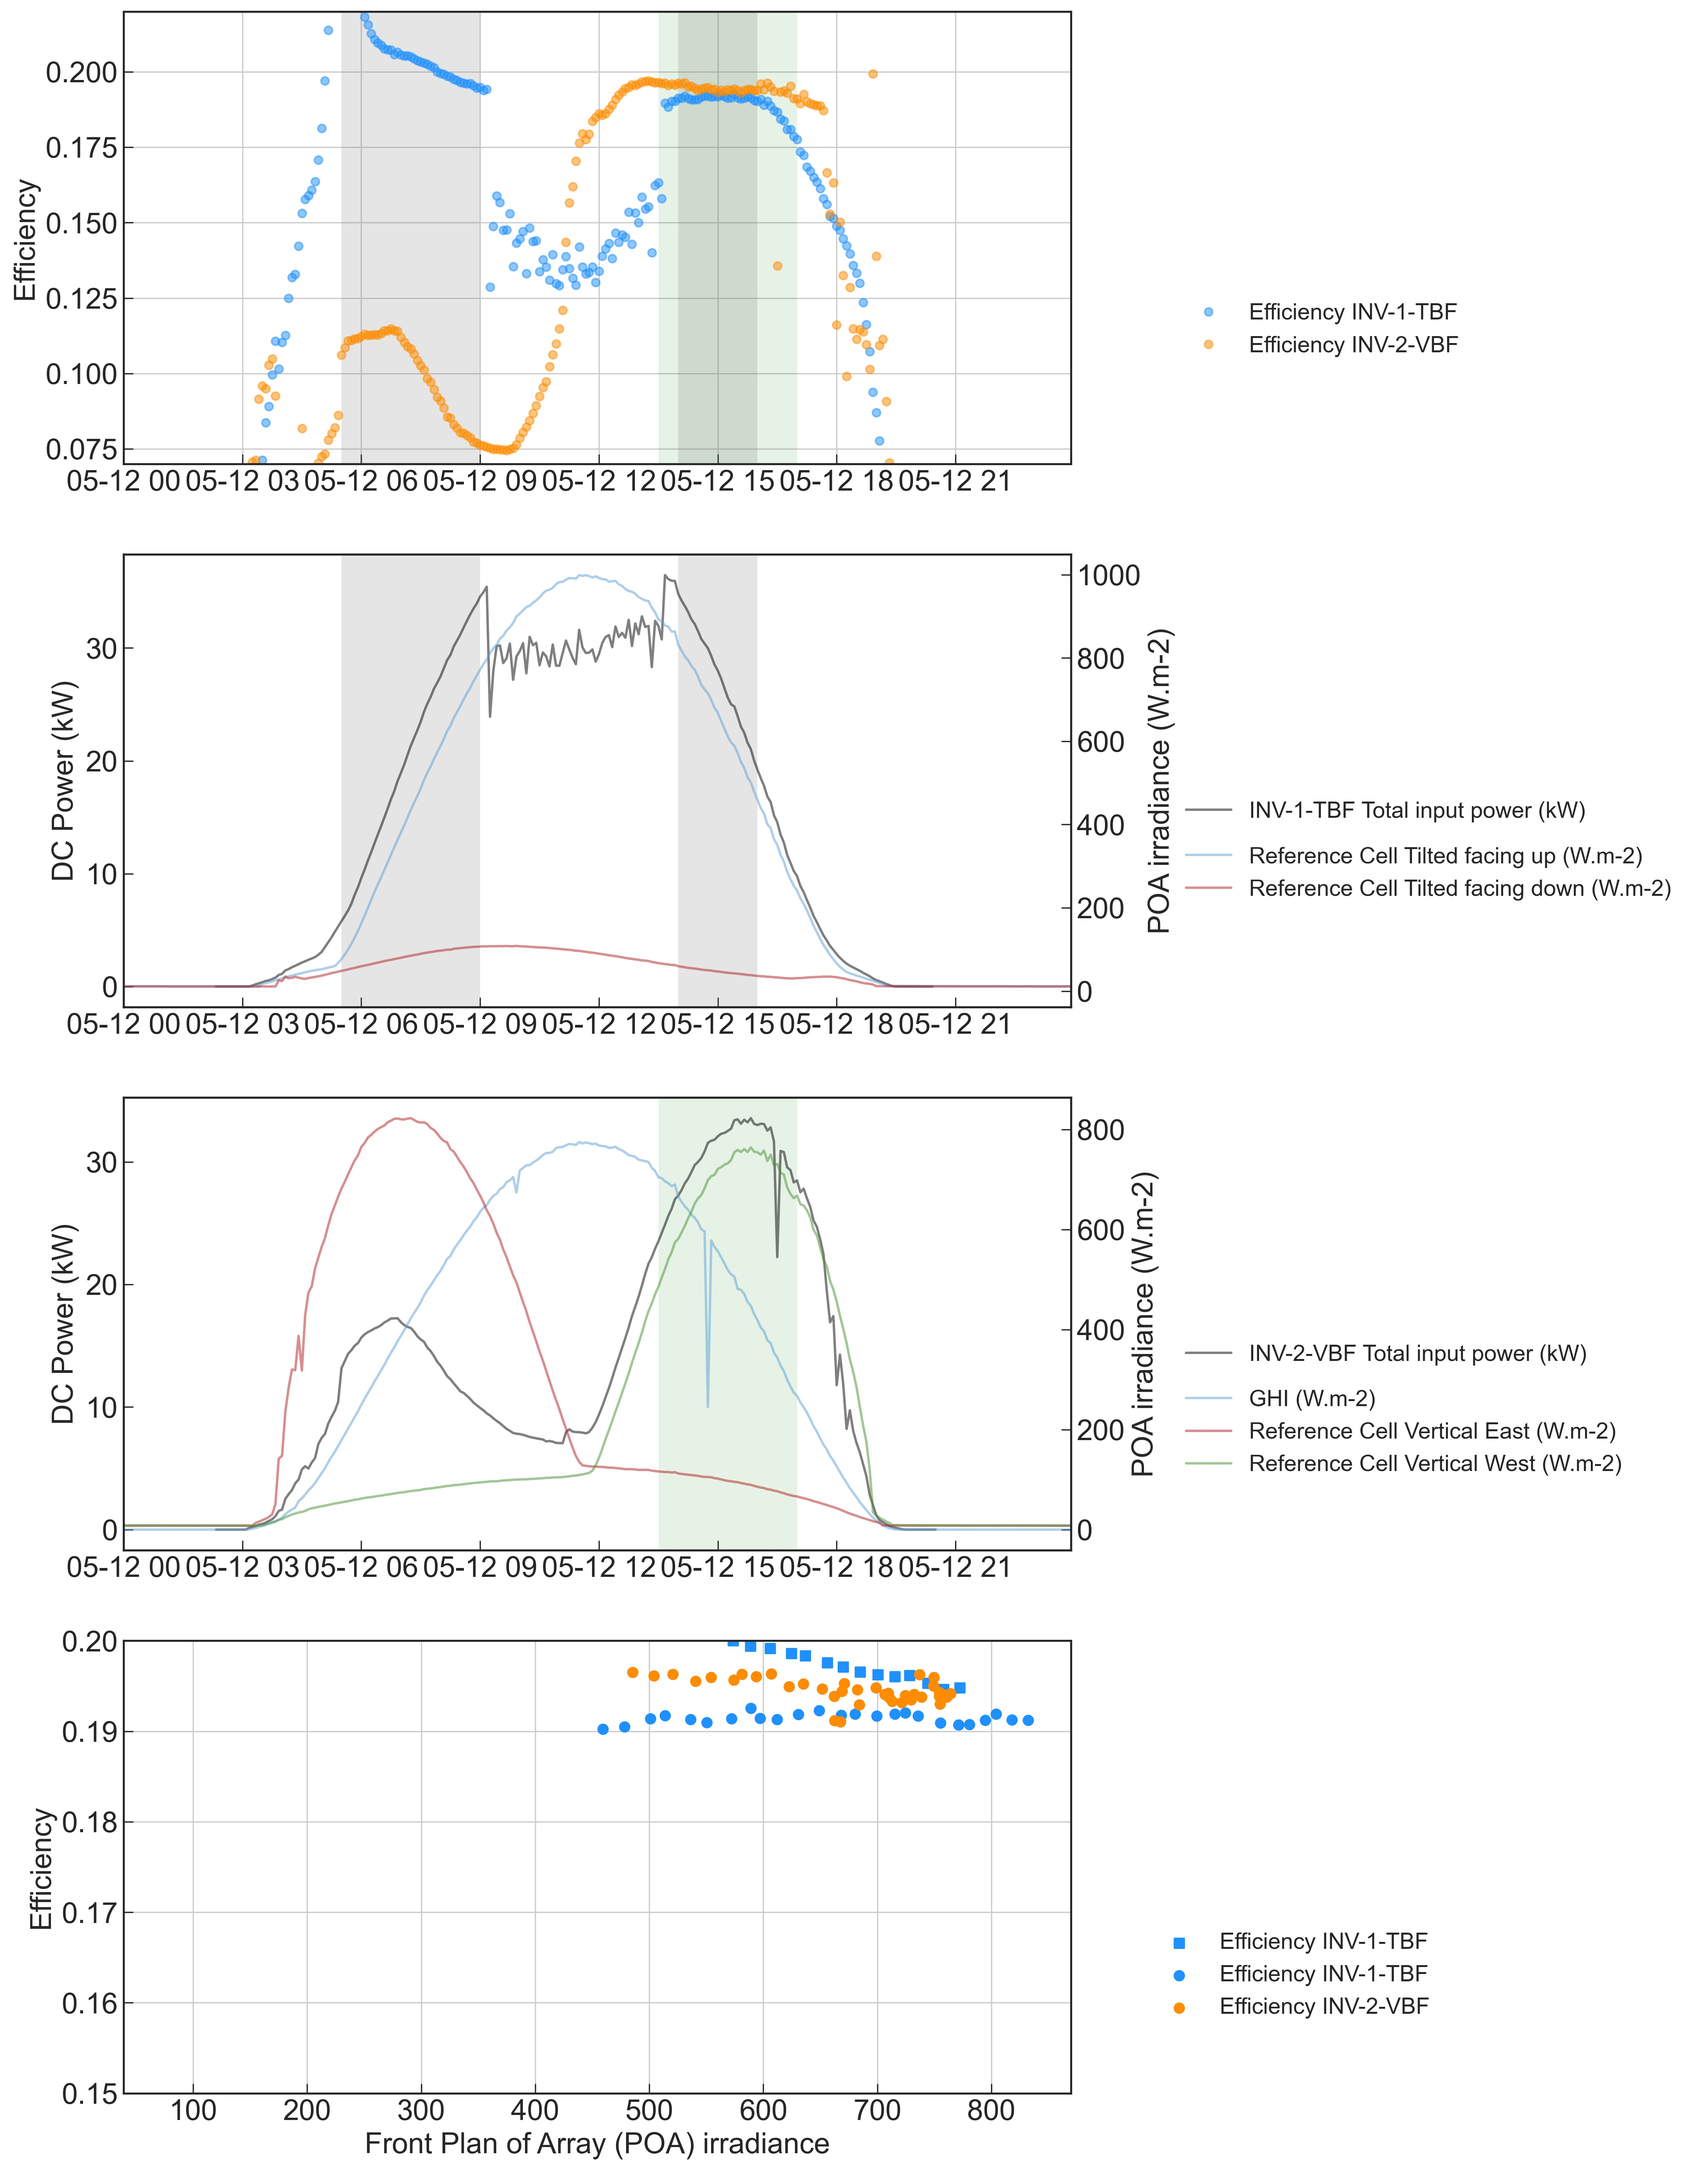
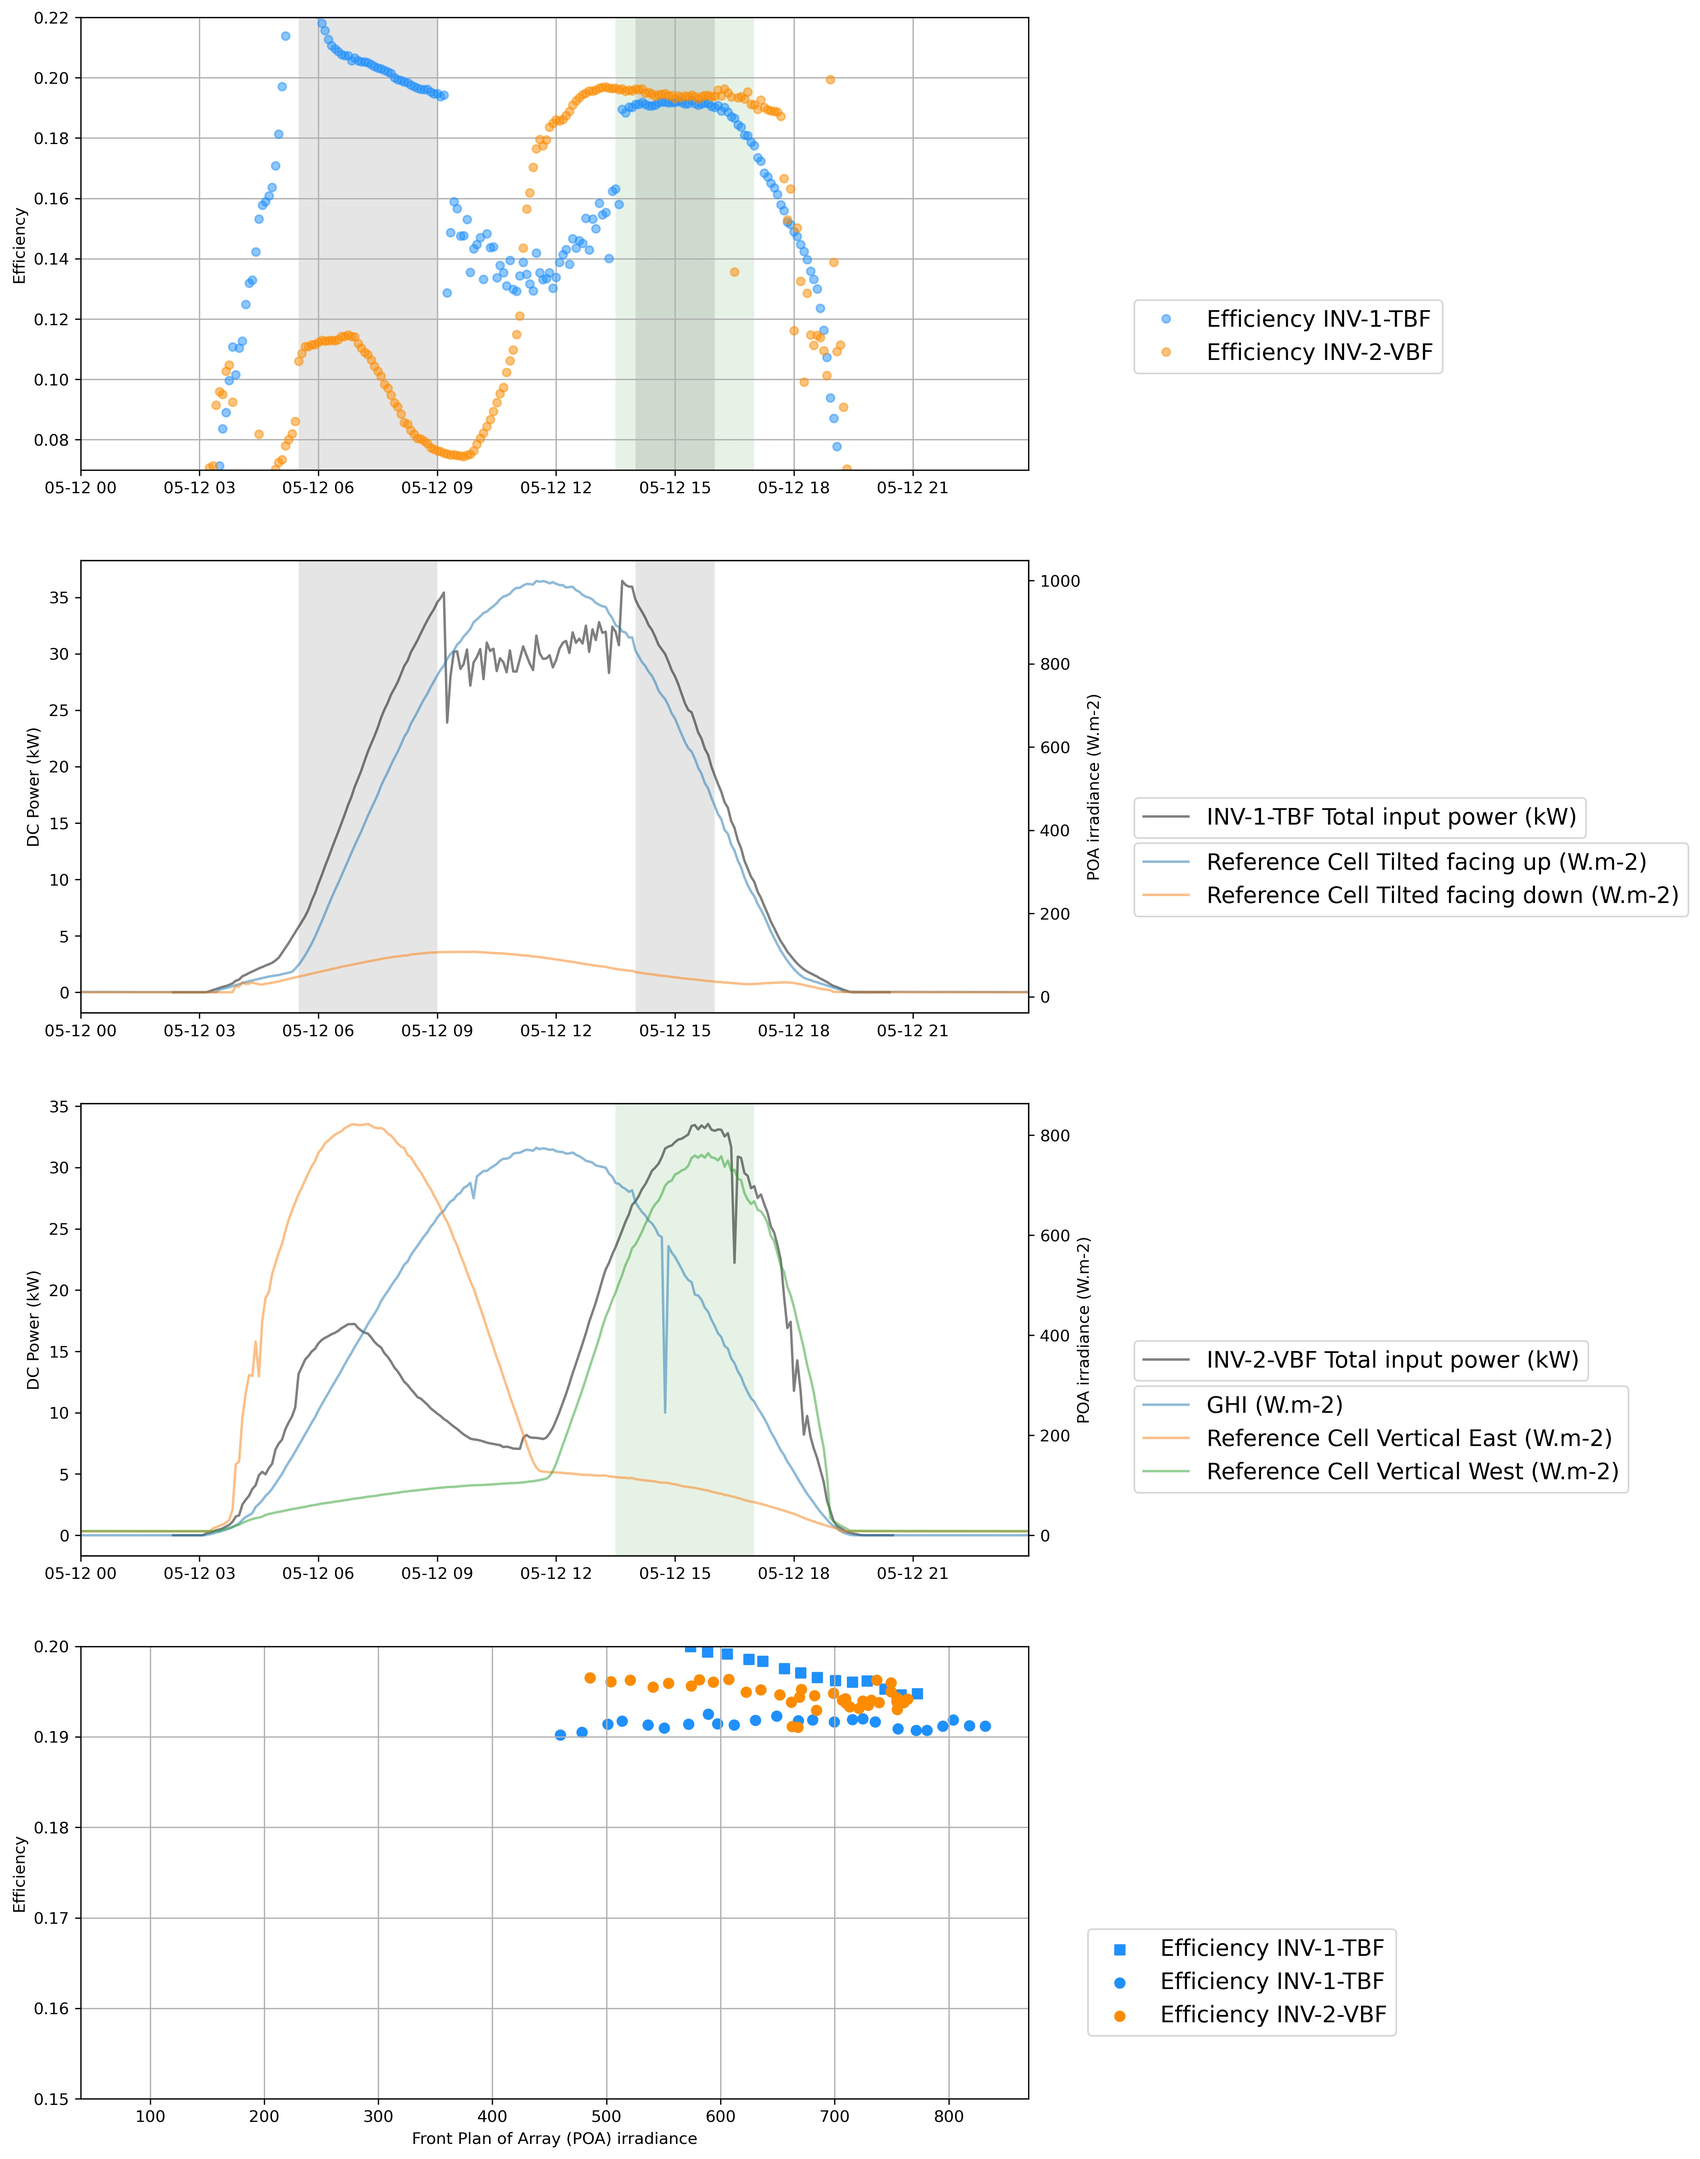
Add vmp vs imp for efficiency analysis

diff --git a/efficiency_analysis.py b/efficiency_analysis.py
@@ -8,7 +8,7 @@ Calculate efficiency for both systems
 import pandas as pd
 import matplotlib.pyplot as plt
 import matplotlib.gridspec as gridspec 
-date ='2023-05-12 '
+date ='2023-06-11 '
 start_date = date +'00:00:00' #day to be ploted
 tz = 'UCT' 
 start_t = date + '05:30:00' 
@@ -165,3 +165,26 @@ ax5.set_ylim([0.15, 0.20])
 ax5.legend(fontsize=14, bbox_to_anchor=(1.4, 0.4))
 
 plt.savefig('Figures/Efficiency_analysis_{}.jpg'.format(date), dpi=300, bbox_inches='tight')
+
+#%%
+plt.figure(figsize=(6, 6))
+gs1 = gridspec.GridSpec(1, 1)
+ax0 = plt.subplot(gs1[0,0])
+i=0
+for i in range(1,5):
+    ax0.scatter(data['TBF PV{} input current (A)'.format(str(i))][time_index_t2],  
+                data['TBF PV{} input voltage (V)'.format(str(i))][time_index_t2],  
+                marker='o',
+                color='pink',
+                alpha=0.5,
+                label='row {}'.format(str(i)))
+    
+    ax0.scatter(data['VBF PV{} input current (A)'.format(str(i))][time_index_t2],  
+                data['VBF PV{} input voltage (V)'.format(str(i))][time_index_t2],  
+                color='green',
+                marker='x',
+                alpha=0.5,
+                label='row {}'.format(str(i)))
+ax0.set_ylabel('voltage (V)')
+ax0.set_xlabel('current (A)')
+plt.savefig('Figures/voltage_current_{}.jpg'.format(date), dpi=300, bbox_inches='tight')

diff --git a/figure_paper.py b/figure_paper.py
@@ -565,3 +565,4 @@ ax3.text(0.05, 0.95, 'd)',
 plt.savefig('Figures/figure_paper.jpg', 
                 dpi=100, bbox_inches='tight')
     
+dc_power_v_m.sum()/dc_power_t_m.sum()
